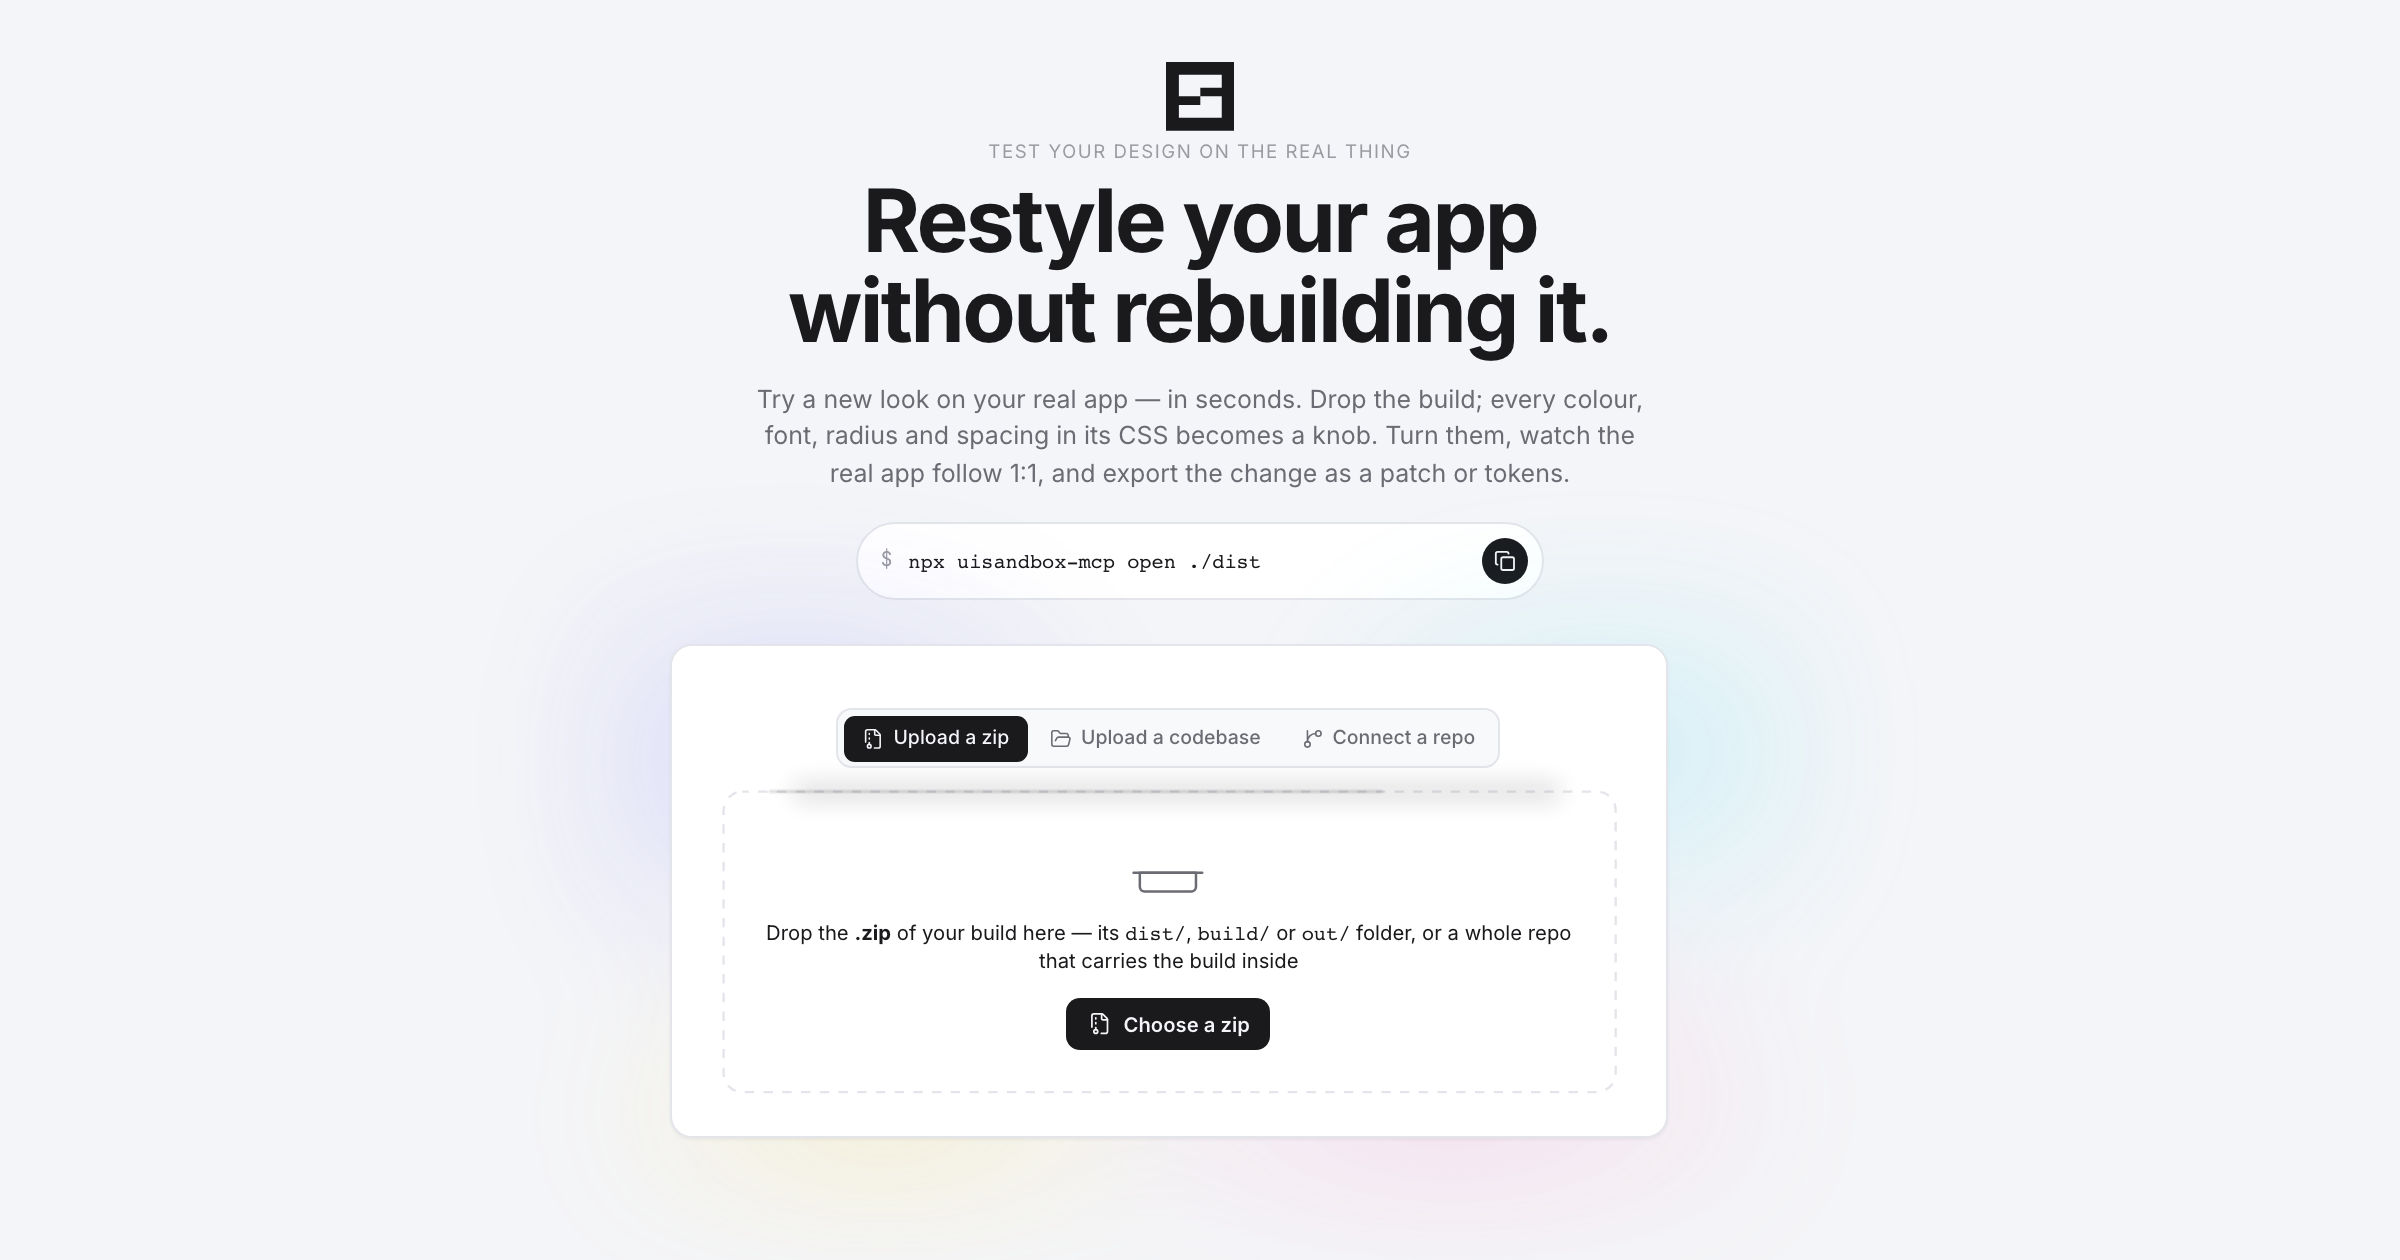
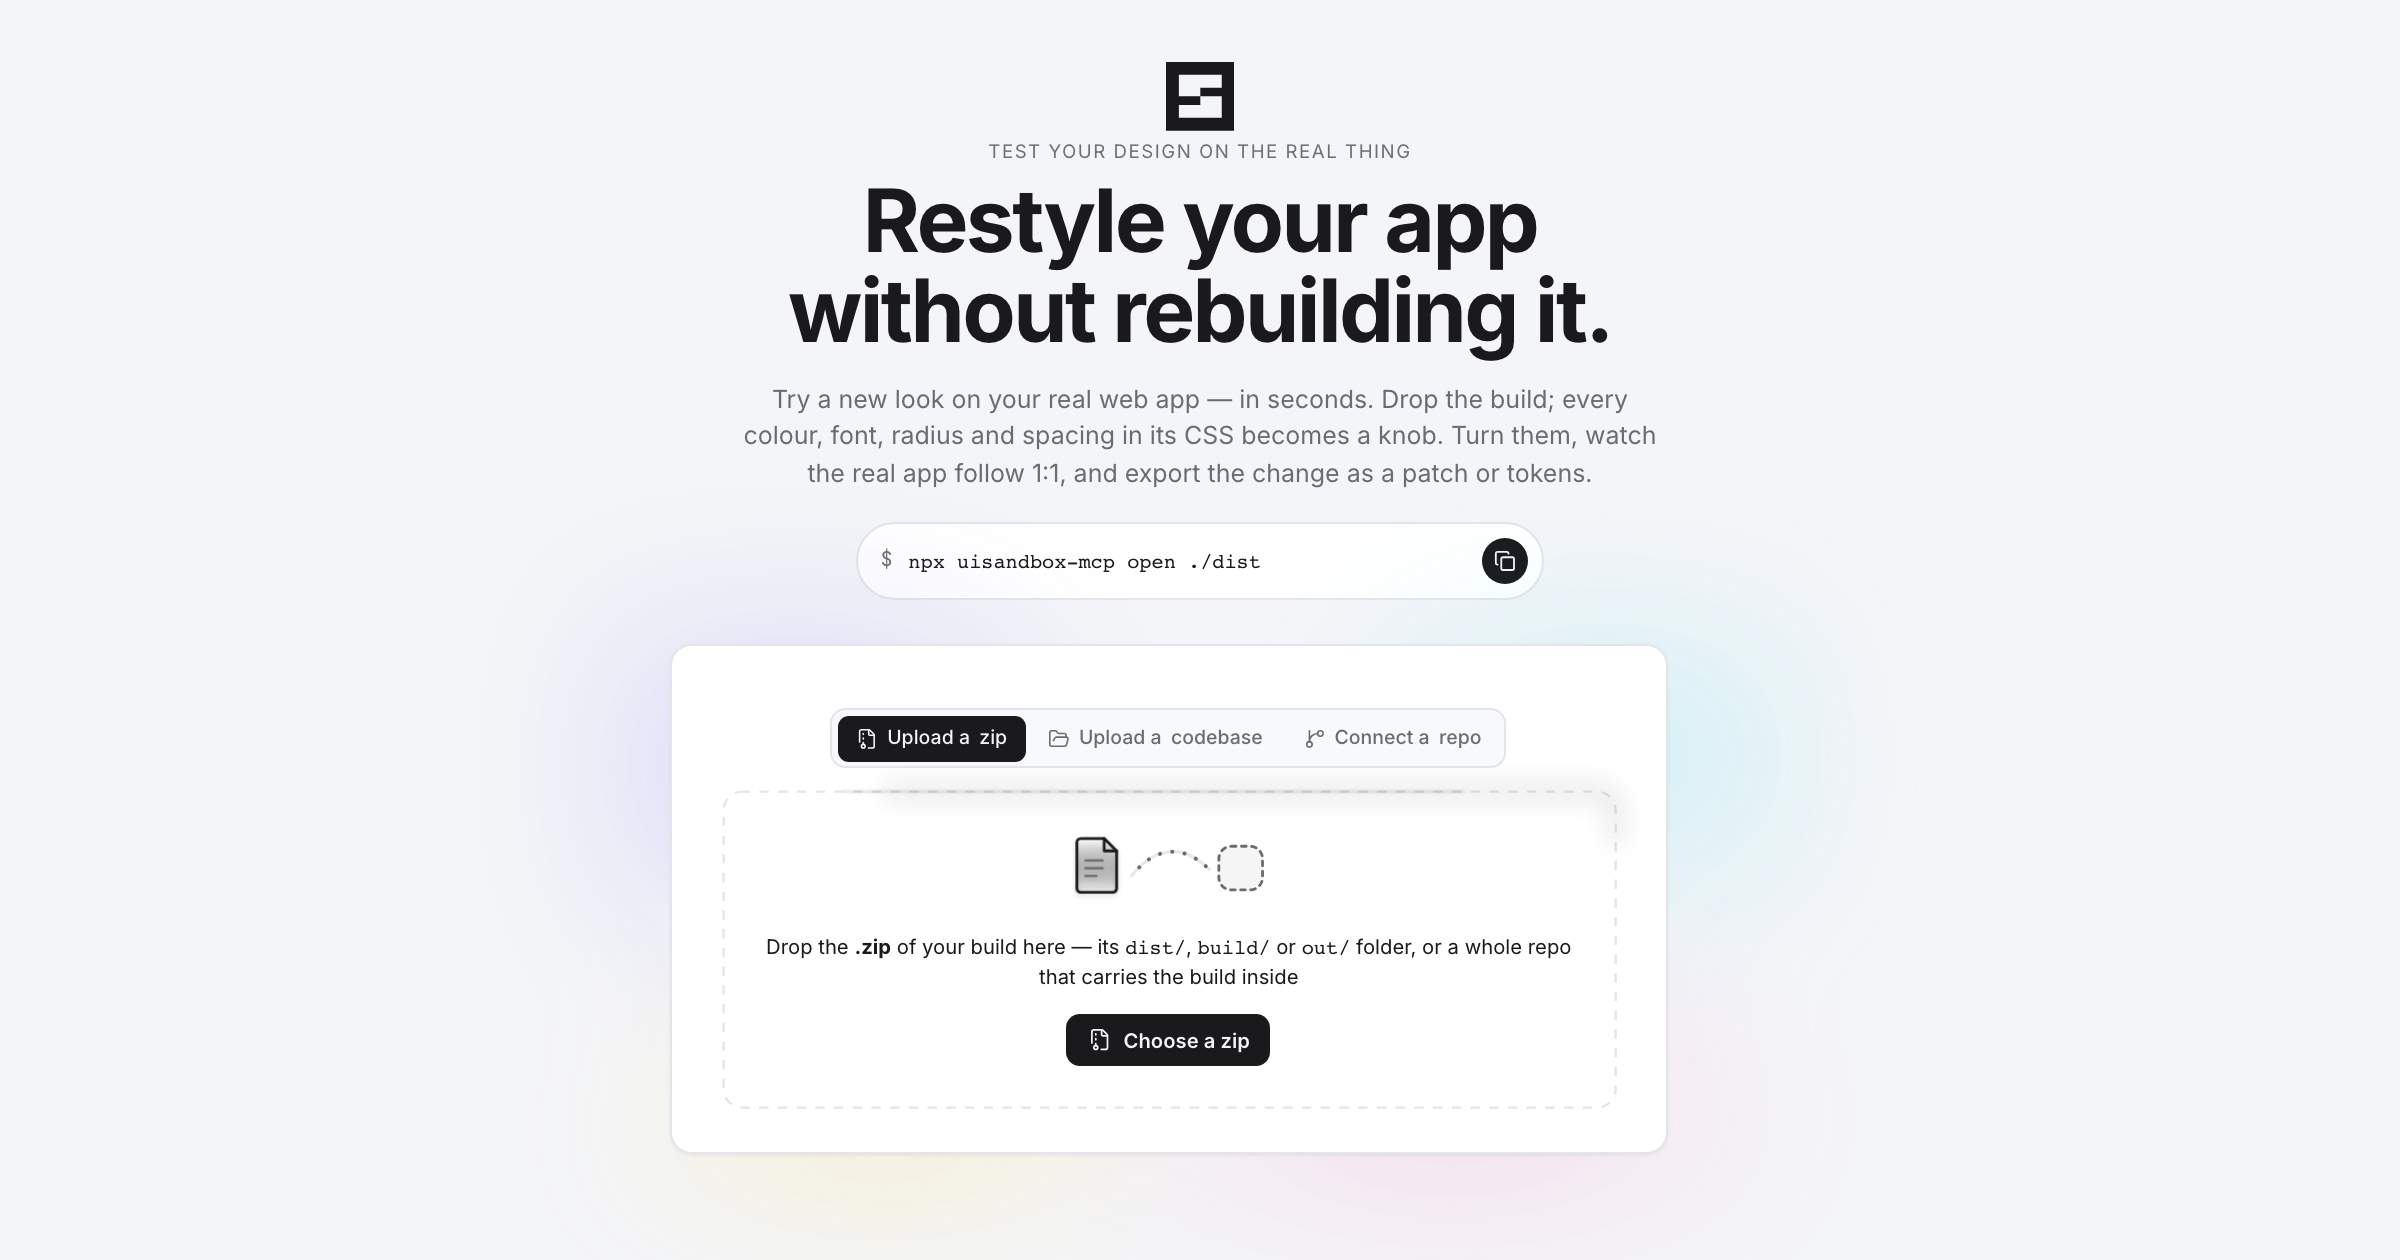
Copy: 'your real web app' in the sub-line everywhere (site, meta, OG, llms, README, marketing); the limits paragraph names native iOS/Android

diff --git a/index.html b/index.html
@@ -85,7 +85,7 @@
           <div class="m"></div>
           <div class="k">Test your design on the real thing</div>
           <h1>Restyle your app<br>without rebuilding it.</h1>
-          <p class="s">Try a new look on your real app — in seconds. Drop the build; every colour, font, radius and spacing in its CSS becomes a knob. Turn them, watch the real app follow 1:1, and export the change as a patch or tokens.</p>
+          <p class="s">Try a new look on your real web app — in seconds. Drop the build; every colour, font, radius and spacing in its CSS becomes a knob. Turn them, watch the real app follow 1:1, and export the change as a patch or tokens.</p>
           <div class="i"></div>
           <div class="c">
             <p>Drop the <b>built</b> site — its <code>dist/</code>, <code>build/</code> or <code>out/</code> folder, a zip, or a public GitHub repo. It renders 1:1 in the browser; nothing is uploaded (files are read in the page and served to the frame by a service worker on this origin).</p>

diff --git a/src/app/Intake.tsx b/src/app/Intake.tsx
@@ -54,7 +54,7 @@ export function Intake({ onArchive, onUrl, busy, error }: IntakeProps) {
         <div className="intake__mark"><Mark size={44} /></div>
         <div className="hero__kicker">Test your design on the real thing</div>
         <h1>Restyle your app<br />without rebuilding it.</h1>
-        <p className="hero__sub">Try a new look on your real app — in seconds. Drop the build; every colour, font, radius and spacing in its CSS becomes a knob. Turn them, watch the real app follow 1:1, and export the change as a patch or tokens.</p>
+        <p className="hero__sub">Try a new look on your real web app — in seconds. Drop the build; every colour, font, radius and spacing in its CSS becomes a knob. Turn them, watch the real app follow 1:1, and export the change as a patch or tokens.</p>
         <InstallLine compact />
       </section>
       <div className="door">

diff --git a/scripts/og/og.html b/scripts/og/og.html
@@ -36,7 +36,7 @@
   <div class="stage">
     <div class="brand"><svg viewBox="0 0 64 64"><path d="M64 64H0V0H64V64ZM12 32H32V40H12V52H52V32H32V24H52V12H12V32Z" fill="#ececf1" fill-rule="evenodd"/></svg>UISandbox</div>
     <h1>Restyle your app<br><span>without rebuilding it.</span></h1>
-    <p>Try a new look on your real app — in seconds. Drop the build, turn the knobs, watch it follow 1:1, export the patch. Test your design on the real thing.</p>
+    <p>Try a new look on your real web app — in seconds. Drop the build, turn the knobs, watch it follow 1:1, export the patch. Test your design on the real thing.</p>
   </div>
   <div class="foot"><span class="chip ok">✓ 1:1 verified · 1,184 elements</span><span class="chip">reach 100% colours · 100% type</span><span class="chip">MIT · free forever</span></div>
   <div class="url">uisandbox.org</div>

diff --git a/brand/marketing/copy.md b/brand/marketing/copy.md
@@ -1,6 +1,6 @@
 # Copy — the lines, per channel
 
-The three lines, in this order of use: **Restyle your app without rebuilding it.** (headline) · *Try a new look on your real app — in seconds.* (body) · *Test your design on the real thing.* (kicker/slogan). Never claim more than the meter shows: "1:1" is measured, images/canvas are outside, iOS/Android do not render.
+The three lines, in this order of use: **Restyle your app without rebuilding it.** (headline) · *Try a new look on your real web app — in seconds.* (body) · *Test your design on the real thing.* (kicker/slogan). Never claim more than the meter shows: "1:1" is measured, images/canvas are outside, iOS/Android do not render.
 
 ## X — the pinned post (with the GIF or `site-hero-light-1440.png`)
 
@@ -31,7 +31,7 @@ What I cared about most is honesty. "1:1" is measured: a check loads the untouch
 
 Nothing leaves the tab — no server behind it. The one exception is "connect a repo" (GitHub sends no CORS on zips, so a same-origin route fetches it; nothing stored). A hostile archive cannot navigate the page away or unregister the worker; the security note is in the repo.
 
-Limits, so you don't have to find them: raster logos are outside any knob; iOS/Android don't render (the knobs still export Swift/Android constants); very large builds (45 MB of CSS) are slow.
+Limits, so you don't have to find them: it is for web apps — a native iOS or Android app does not render here (the door says so; the knobs still export Swift and Android constants); raster logos are outside any knob; very large builds (45 MB of CSS) are slow.
 
 There is also an MCP server (`npx uisandbox-mcp`) — in Claude Code, "open this app in UISandbox" builds, loads and opens the real sandbox; what you turn comes back so "export what I changed" works — and a CLI: `npx uisandbox-mcp open ./dist`.
 

diff --git a/brand/marketing/README.md b/brand/marketing/README.md
@@ -11,7 +11,7 @@ All rendered from the real app (nothing drawn by hand) — regenerate after a de
 | `stage-acme-brand-crimson.png` | a real build (our acme fixture) in the sandbox, Brand turned to crimson | `node scripts/og/shots.mjs` |
 | `verify-card.png` | the 1:1 check card | idem |
 
-Lines to use with them: *Restyle your app without rebuilding it.* · *Try a new look on your real app — in seconds.* · kicker: *Test your design on the real thing.*
+Lines to use with them: *Restyle your app without rebuilding it.* · *Try a new look on your real web app — in seconds.* · kicker: *Test your design on the real thing.*
 
 ## Social preview (GitHub)
 

diff --git a/README.md b/README.md
@@ -5,7 +5,7 @@
 <h1 align="center">UISandbox</h1>
 
 <p align="center"><b>Restyle your app without rebuilding it.</b><br>
-Try a new look on your real app — in seconds. Drop the build, turn the knobs, watch it follow 1:1, export the patch.<br>
+Try a new look on your real web app — in seconds. Drop the build, turn the knobs, watch it follow 1:1, export the patch.<br>
 <sub>Test your design on the real thing.</sub></p>
 
 <p align="center">
